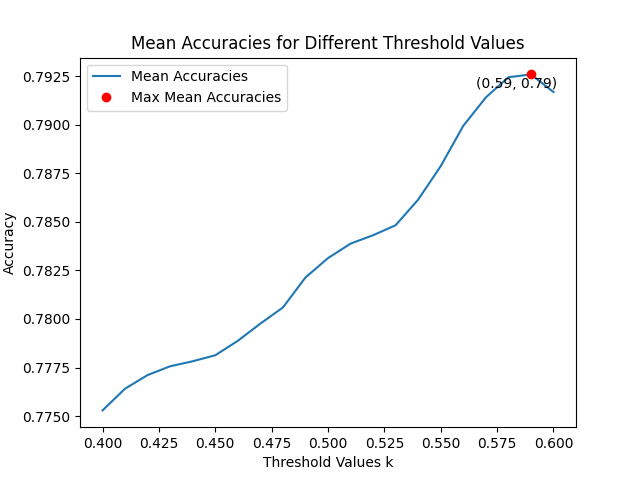
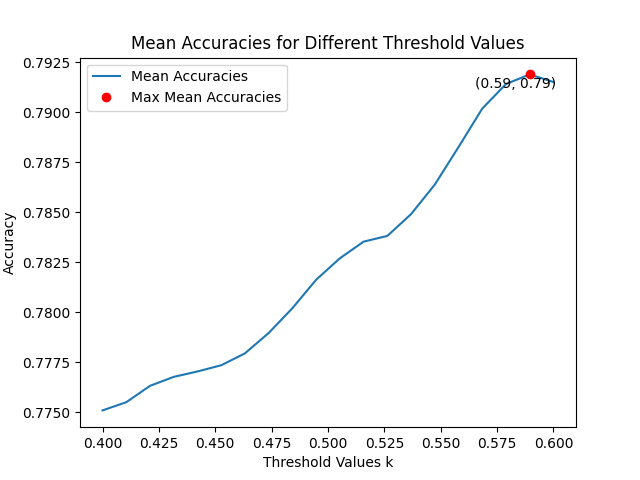
1

diff --git a/final_project/p4_1.py b/final_project/p4_1.py
@@ -1,0 +1,168 @@
+import matplotlib.pyplot as plt
+import numpy as np
+from sklearn.model_selection import train_test_split
+from sklearn.linear_model import LogisticRegression
+from sklearn.metrics import roc_auc_score, accuracy_score, recall_score, precision_score, confusion_matrix
+from sklearn.preprocessing import StandardScaler
+
+
+pas_class = []
+pas_age = []
+pas_gender = []
+pas_survived = []
+with open('TitanicPassengers.txt', 'r') as file:
+    next(file)
+    lines = file.readlines()
+    for line in lines:
+        val = line.split(',')
+        pas_class.append(int(val[0]))
+        pas_age.append(float(val[1]))
+        if val[2] == 'M':
+            pas_gender.append(1)
+        else:
+            pas_gender.append(0)
+        pas_survived.append(int(val[3]))
+
+pas_class_onehot = np.zeros((len(pas_class), max(pas_class)))
+for i, c in enumerate(pas_class):
+    pas_class_onehot[i, c-1] = 1
+
+X = np.hstack((pas_class_onehot, np.array(pas_age).reshape(-1, 1), np.array(pas_gender).reshape(-1, 1)))
+y = np.array(pas_survived)
+
+weights = []
+accuracies = []
+sensitivities = []
+specificities = []
+ppv = []
+auroc = []
+max_accuracies = []
+optimal_ks = []
+optimal_k = 0.5
+max_accuracy = 0
+accuracies_for_k = {k: [] for k in np.linspace(0, 1, 100)}
+
+scaler = StandardScaler()
+
+for _ in range(1000):
+    X_train, X_test, y_train, y_test = train_test_split(X, y, test_size=0.2)
+
+    # Fit on training set only.
+    scaler.fit(X_train)
+
+    # Apply transform to both the training set and the test set.
+    X_train = scaler.transform(X_train)
+    X_test = scaler.transform(X_test)
+
+    clf = LogisticRegression()
+
+    clf.fit(X_train, y_train)
+
+    weights.append(clf.coef_[0])
+
+    y_pred = clf.predict(X_test)
+
+    tn, fp, fn, tp = confusion_matrix(y_test, y_pred).ravel()
+    accuracies.append(accuracy_score(y_test, y_pred))
+    sensitivities.append(tp / (tp + fn))
+    specificities.append(tn / (tn + fp))
+    ppv.append(tp / (tp + fp))
+    auroc.append(roc_auc_score(y_test, y_pred))
+    
+    optimal_k = 0.5
+    max_accuracy = 0
+
+    for k in np.linspace(0, 1, 100):
+        y_pred = (clf.predict_proba(X_test)[:,1] >= k).astype(int)
+        accuracy = accuracy_score(y_test, y_pred)
+        accuracies_for_k[k].append(accuracy)
+        if accuracy > max_accuracy:
+            max_accuracy = accuracy
+            optimal_k = k
+
+    optimal_ks.append(optimal_k)
+    max_accuracies.append(max_accuracy)
+
+
+weights = np.array(weights)
+
+mean_weights = np.mean(weights, axis=0)
+lower_weights, upper_weights = np.percentile(weights, [2.5, 97.5], axis=0)
+
+mean_accuracy = np.mean(accuracies)
+lower_accuracy, upper_accuracy = np.percentile(accuracies, [2.5, 97.5])
+
+mean_sensitivity = np.mean(sensitivities)
+lower_sensitivity, upper_sensitivity = np.percentile(sensitivities, [2.5, 97.5])
+
+mean_specificity = np.mean(specificities)
+lower_specificity, upper_specificity = np.percentile(specificities, [2.5, 97.5])
+
+mean_ppv = np.mean(ppv)
+lower_ppv, upper_ppv = np.percentile(ppv, [2.5, 97.5])
+
+mean_auroc = np.mean(auroc)
+lower_auroc, upper_auroc = np.percentile(auroc, [2.5, 97.5])
+
+print('Logistic Regression with zScaling:')
+print('Averages for all examples 1000 trials with k=0.5')
+print('Mean weight of C1 = {}, 95% confidence interval = {}'.format(round(mean_weights[0], 3), round(upper_weights[0] - lower_weights[0], 3)))
+print('Mean weight of C2 = {}, 95% confidence interval = {}'.format(round(mean_weights[1], 3), round(upper_weights[1] - lower_weights[1], 3)))
+print('Mean weight of C3 = {}, 95% confidence interval = {}'.format(round(mean_weights[2], 3), round(upper_weights[2] - lower_weights[2], 3)))
+print('Mean weight of age = {},  95% confidence interval = {}'.format(round(mean_weights[3], 3), round(upper_weights[3] - lower_weights[3], 3)))
+print('Mean weight of Male Gender = {}, 95% CI = {}'.format(round(mean_weights[4], 3), round(upper_weights[4] - lower_weights[4], 3)))
+print('Mean accuracy = {},  95% confidence interval = {}'.format(round(mean_accuracy, 3), round(upper_accuracy - lower_accuracy, 3)))
+print('Mean sensitivity = {},  95% confidence interval = {}'.format(round(mean_sensitivity, 3), round(upper_sensitivity - lower_sensitivity, 3)))
+print('Mean specificity = {},  95% confidence interval = {}'.format(round(mean_specificity, 3), round(upper_specificity - lower_specificity, 3)))
+print('Mean pos. pred. val. = {},  95% confidence interval = {}'.format(round(mean_ppv, 3), round(upper_ppv - lower_ppv, 3)))
+print('Mean AUROC = {},  95% confidence interval = {}'.format(round(mean_auroc, 3), round(upper_auroc - lower_auroc, 3)))
+
+mean_optimal_k = np.mean(optimal_ks)
+std_optimal_k = np.std(optimal_ks)
+mean_max_accuracy = np.mean(max_accuracies)
+std_max_accuracy = np.std(max_accuracies)
+
+plt.figure(figsize=(10, 6))
+plt.hist(optimal_ks, bins=20, range=(0.4, 0.6), edgecolor='black', label='k values for maximum accuracies\nMean ={:.2f} SD = {:.2f}'.format(mean_optimal_k, std_optimal_k))
+plt.xlabel('Threshold Values k')
+plt.ylabel('Number of ks')
+plt.title('Threshold values k for Maximum Accuracies')
+plt.savefig('Threshold values k for Maximum Accuracies.png')
+
+max_accuracies = np.max(accuracies)
+
+plt.figure()
+plt.hist(accuracies, bins=20, edgecolor='black')
+plt.xlabel('Maximum Accuracies')
+plt.ylabel('Numbers of Maximum Accuracies')
+plt.title('Maximum Accuracies')
+plt.savefig('Maximum Accuracies.png')
+
+k_values = np.linspace(0.4, 0.6, 20)
+accuracies = np.zeros(len(k_values))
+
+for _ in range(1000):
+    X_train, X_test, y_train, y_test = train_test_split(X, y, test_size=0.2)
+
+    clf = LogisticRegression()
+    clf.fit(X_train, y_train)
+
+    for i, k in enumerate(k_values):
+        y_pred = (clf.predict_proba(X_test)[:,1] >= k).astype(bool)
+        accuracies[i] += accuracy_score(y_test, y_pred)
+
+accuracies /= 1000
+
+max_accuracy_index = np.argmax(accuracies)
+max_accuracy_k = k_values[max_accuracy_index]
+max_accuracy = accuracies[max_accuracy_index]
+
+plt.figure()
+plt.plot(k_values, accuracies, label='Mean Accuracies')
+plt.plot(max_accuracy_k, max_accuracy, 'ro', label='Max Mean Accuracies')
+plt.annotate(f'({max_accuracy_k:.2f}, {max_accuracy:.2f})', (max_accuracy_k, max_accuracy), textcoords="offset points", xytext=(-10,-10), ha='center')
+plt.xlabel('Threshold Values k')
+plt.ylabel('Accuracy')
+plt.title('Mean Accuracies for Different Threshold Values')
+plt.legend()
+plt.savefig('Mean Accuracies for Different Threshold Values.png')

diff --git a/final_project/p4_2.py b/final_project/p4_2.py
@@ -3,6 +3,7 @@ import numpy as np
 from sklearn.model_selection import train_test_split
 from sklearn.linear_model import LogisticRegression
 from sklearn.metrics import roc_auc_score, accuracy_score, recall_score, precision_score, confusion_matrix
+from sklearn.preprocessing import MinMaxScaler
 
 
 pas_class = []
@@ -41,8 +42,17 @@ optimal_k = 0.5
 max_accuracy = 0
 accuracies_for_k = {k: [] for k in np.linspace(0, 1, 100)}
 
+scaler = MinMaxScaler()
+
 for _ in range(1000):
     X_train, X_test, y_train, y_test = train_test_split(X, y, test_size=0.2)
+
+    # Fit on training set only.
+    scaler.fit(X_train)
+
+    # Apply transform to both the training set and the test set.
+    X_train = scaler.transform(X_train)
+    X_test = scaler.transform(X_test)
 
     clf = LogisticRegression()
 
@@ -94,7 +104,7 @@ lower_ppv, upper_ppv = np.percentile(ppv, [2.5, 97.5])
 mean_auroc = np.mean(auroc)
 lower_auroc, upper_auroc = np.percentile(auroc, [2.5, 97.5])
 
-print('Logistic Regression:')
+print('Logistic Regression with iScaling:')
 print('Averages for all examples 1000 trials with k=0.5')
 print('Mean weight of C1 = {}, 95% confidence interval = {}'.format(round(mean_weights[0], 3), round(upper_weights[0] - lower_weights[0], 3)))
 print('Mean weight of C2 = {}, 95% confidence interval = {}'.format(round(mean_weights[1], 3), round(upper_weights[1] - lower_weights[1], 3)))
